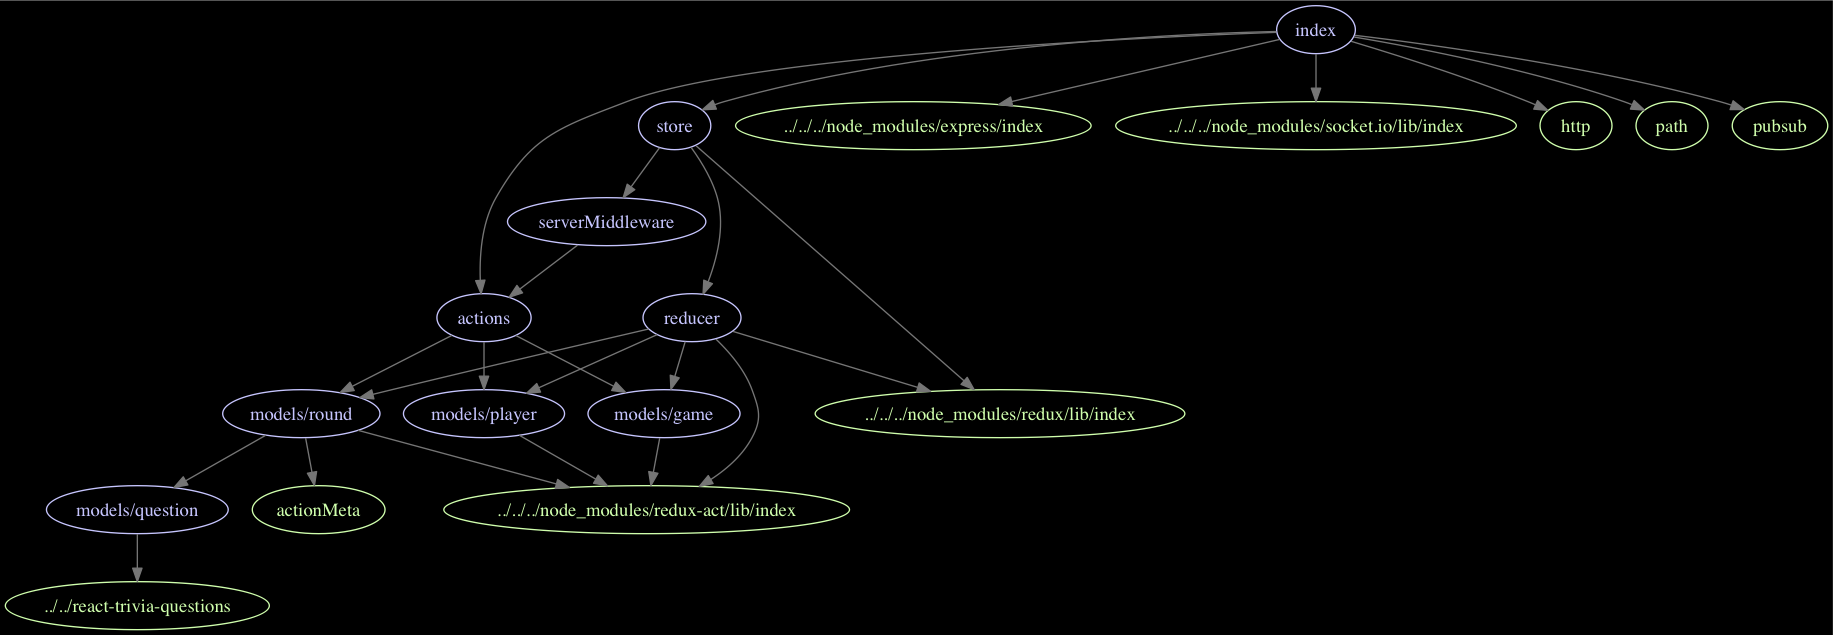
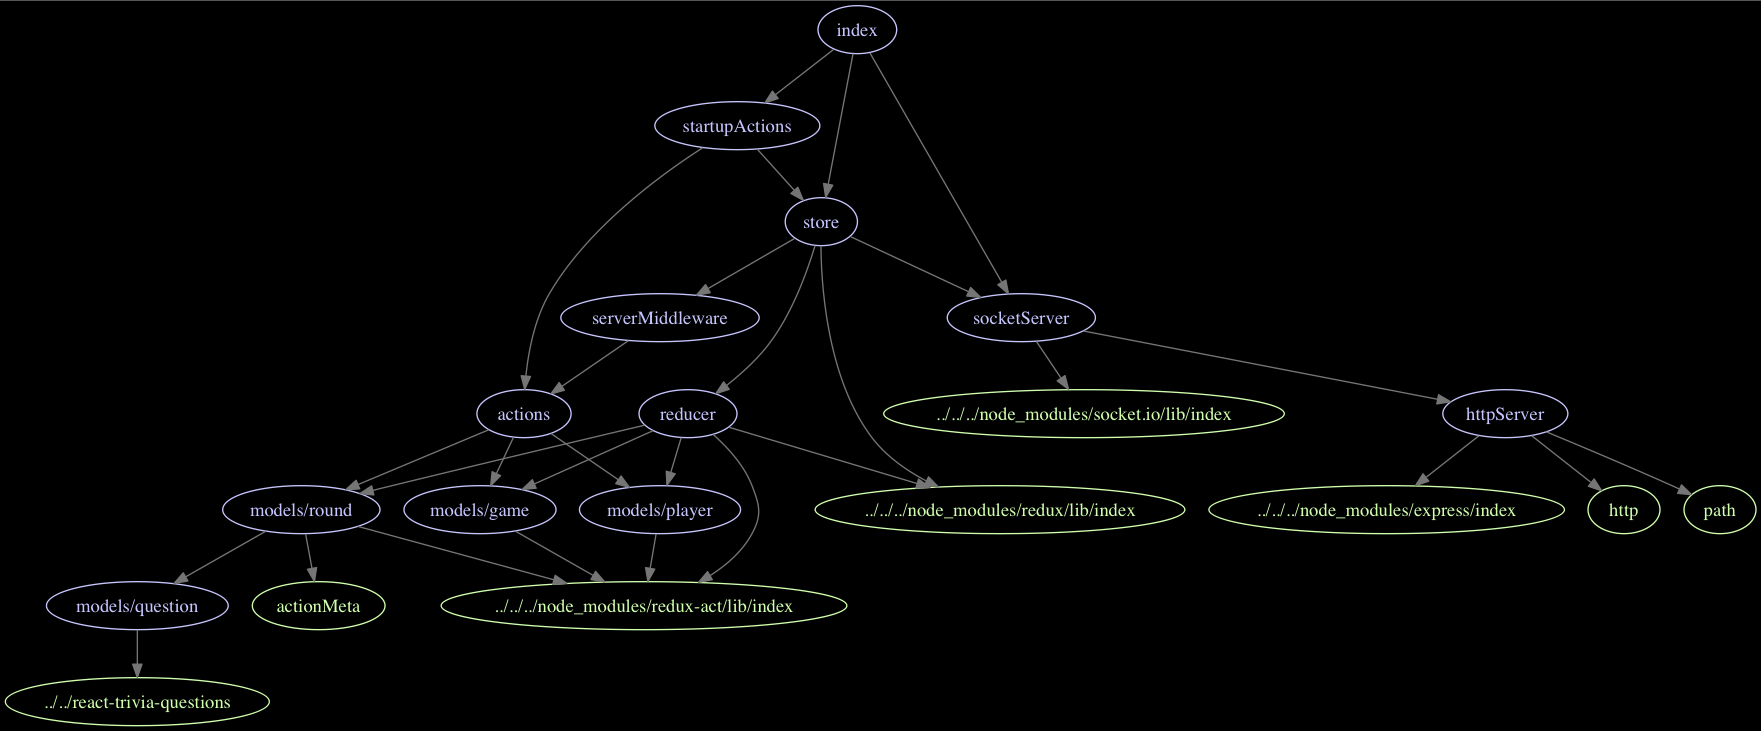
Let the module system do its job. Undo unnecessary inversions.

diff --git a/src/index.js b/src/index.js
@@ -1,34 +1,19 @@
-import path from 'path'
-import http from 'http'
-import express from 'express'
-import Server from 'socket.io'
-
 import store from './store'
-import setupPubSub from './pubsub'
-import Actions from './actions'
+import socketServer from './socketServer'
+import startupActions from './startupActions'
 
+// use a middleware to replay actions to all but the client who sent it
 
-// host websockets and the static files from this port
-let port = process.env.PORT || 8470
+socketServer.on('connection', (socket) => {
+  // give the state to newly connected clients
+  console.log('new connection')
+  socket.emit('state', store.getState())
 
-let app = express()
-app.use(express.static(path.join(__dirname, '../client/dist')))
-let httpServer = http.createServer(app)
-httpServer.listen(port)
+  // accept actions from clients
+  socket.on('action', (e) => {
+    console.log('event received: ', e)
+    store.dispatch(e)
+  })
+})
 
-console.log(`Running on port ${port}`)
-
-const io = new Server(httpServer)
-console.log(store.getState())
-setupPubSub(store, io)
-
-// testing- play some actions
-let initActions = [
-  Actions.joinPlayer({name: 'Khaaaann!', clientId: '666'}),
-  Actions.beginGame(),
-  Actions.advanceQuestion()
-]
-
-initActions.map((action, idx) => (
-  setTimeout(() => store.dispatch(action), 1000 + idx*1000)
-))
+console.log('Store:', store.getState())

diff --git a/src/store.js b/src/store.js
@@ -1,9 +1,16 @@
 import {createStore, applyMiddleware} from 'redux'
 import reducer from './reducer'
 import * as serverMiddleware from './serverMiddleware'
+import socketServer from './socketServer'
 
 let middlewareStoreCreator = applyMiddleware(
   ...Object.values(serverMiddleware)
 )(createStore)
 
-export default middlewareStoreCreator(reducer)
+let store = middlewareStoreCreator(reducer)
+
+store.subscribe(() => {
+  socketServer.emit('state', store.getState())
+})
+
+export default store

diff --git a/src/httpServer.js b/src/httpServer.js
@@ -1,0 +1,14 @@
+import path from 'path'
+import http from 'http'
+import express from 'express'
+// host websockets and the static files from this port
+let port = process.env.PORT || 8470
+
+let app = express()
+app.use(express.static(path.join(__dirname, '../client/dist')))
+let httpServer = http.createServer(app)
+httpServer.listen(port)
+
+console.log(`Running on port ${port}`)
+
+export default httpServer

diff --git a/src/startupActions.js b/src/startupActions.js
@@ -1,0 +1,13 @@
+import Actions from './actions'
+import store from './store'
+
+// XXX In the client, actions are bound, and not here - confusing.
+let initActions = [
+  Actions.joinPlayer({name: 'Khaaaann!', clientId: '666'}),
+  Actions.beginGame(),
+  Actions.advanceQuestion()
+]
+
+initActions.map((action, idx) => (
+  setTimeout(() => store.dispatch(action), 1000 + idx*1000)
+))

diff --git a/client/src/components/TestHarness.jsx b/client/src/components/TestHarness.jsx
@@ -11,7 +11,7 @@ export default (props) => (
   <div>
     <h2>Action Triggers</h2>
     <hr/>
-    <button onClick={() => Actions.judgeQuestion()}>Judge Question</button>
+    <button onClick={() => Actions.judgeQuestion()}>Judge</button>
      <hr/>
     <button onClick={() => Actions.advanceQuestion()}>Advance Question</button>
      <hr/>

diff --git a/src/socketServer.js b/src/socketServer.js
@@ -1,0 +1,6 @@
+import httpServer from './httpServer'
+import Server from 'socket.io'
+
+const socketServer = new Server(httpServer)
+
+export default socketServer
